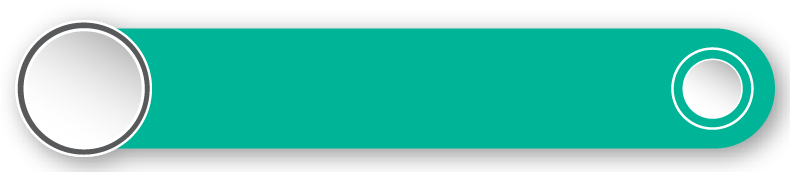
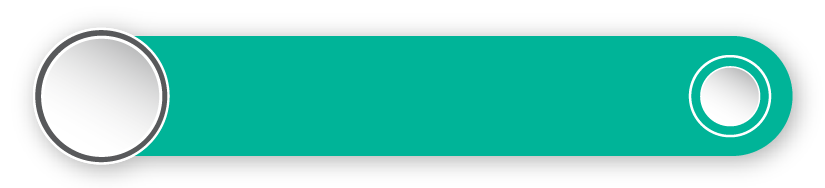
Fix #291 new flow shadows

Changed region(s): [[0.0, 0.1163, 1.0, 1.0]]

diff --git a/platform-visualization/src/actionFlow.js b/platform-visualization/src/actionFlow.js
@@ -4,13 +4,13 @@
  */
 function ActionFlow(flow) {
     
-    var BOX_WIDTH = 790;
-    var BOX_HEIGHT = 172;
+    var BOX_WIDTH = 825;
+    var BOX_HEIGHT = 188;
     var X_OFFSET = -312; //Because lines don't come from the center
     var ROW_SPACING = 350;
     var COLUMN_SPACING = 900;
-    var HEADER_WIDTH = 804;
-    var HEADER_HEIGHT = 232;
+    var HEADER_WIDTH = 825;
+    var HEADER_HEIGHT = 238;
     
     this.flow = flow || [];
     
@@ -390,18 +390,18 @@ function ActionFlow(flow) {
             var size = 83;
             ctx.font = size + 'px Arial';
             ctx.fillStyle = '#000000';
-            window.helper.drawText(Nodeid, 40, 122, ctx, 76, size);
+            window.helper.drawText(Nodeid, 57, 130, ctx, 76, size);
             ctx.fillStyle = '#FFFFFF';
             
             //Title
             size = 20;
             ctx.font = 'bold ' + size + 'px Arial';
-            window.helper.drawText(node.title, 404, 51, ctx, 250, size);
+            window.helper.drawText(node.title, 421, 59, ctx, 250, size);
             
             //Description
             size = 12;
             ctx.font = size + 'px Arial';
-            window.helper.drawText(node.desc, 404, 96, ctx, 250, size);
+            window.helper.drawText(node.desc, 421, 104, ctx, 250, size);
         };
         
         return createFlowBox('images/workflow/stepBox.png', fillBox, BOX_WIDTH, BOX_HEIGHT);
